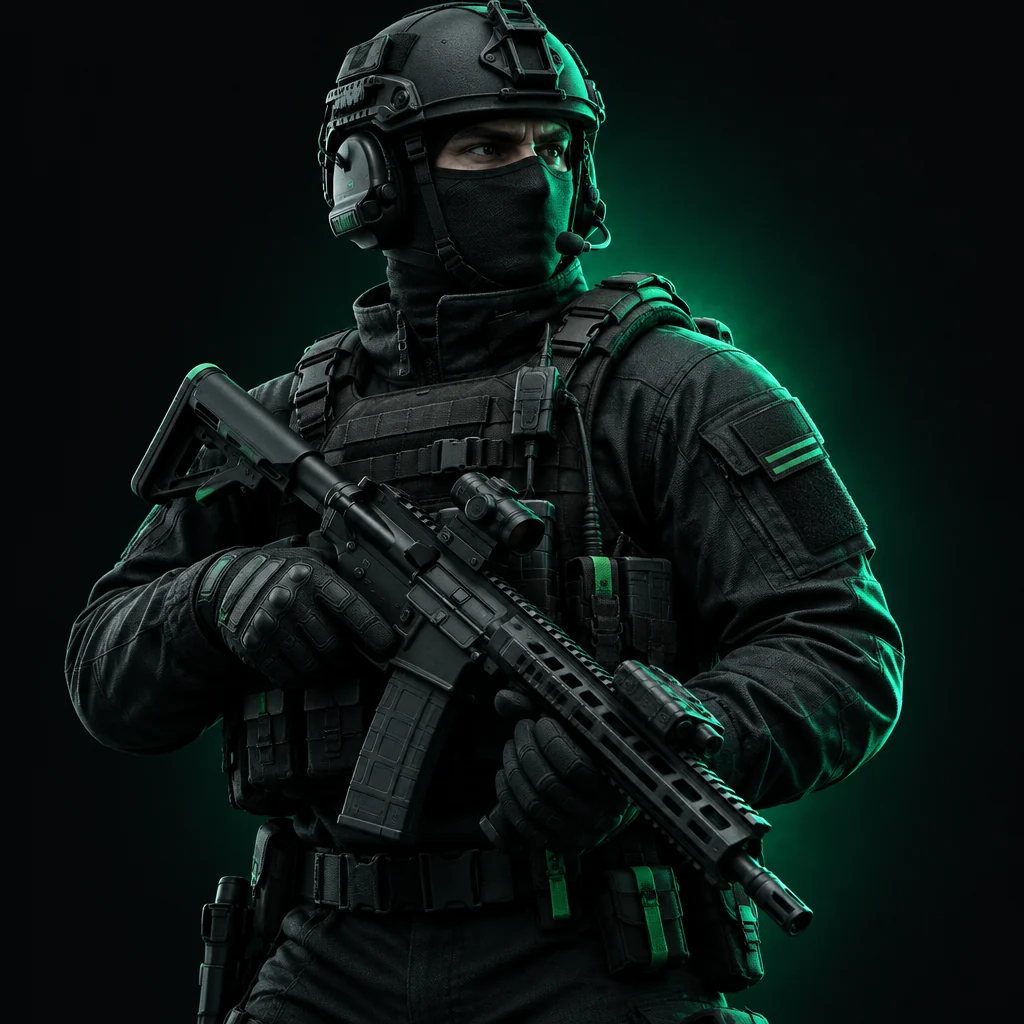
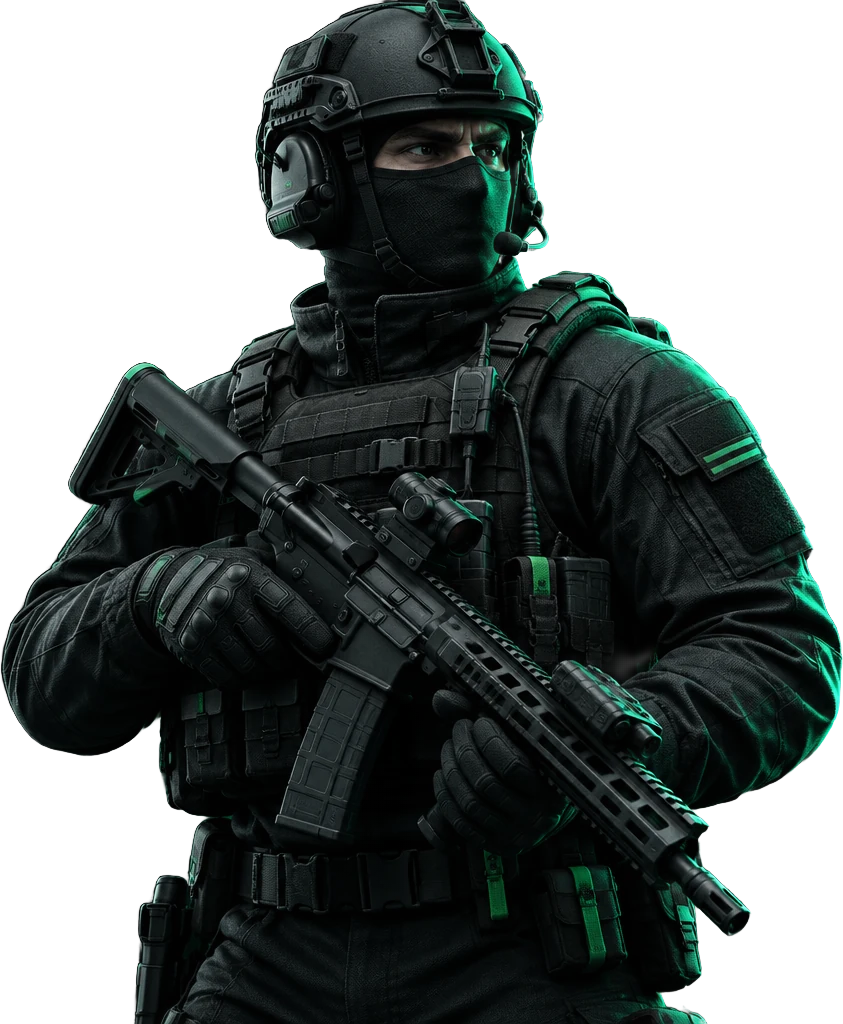
Hero operator cut out and blended into the page, ghost KINETIC wordmark behind

diff --git a/docs/styles.css b/docs/styles.css
@@ -6,6 +6,7 @@
 
 
 
+
 /* Layout: a storefront in the Velocity format. Floating pill nav, a split
    hero with art on the right, portrait product cards, badge led centred
    sections, a columned footer. Product pages: a buy panel, requirement tiles,
@@ -98,8 +99,20 @@ button { font: inherit; color: inherit; }
 h1 { font-size: clamp(54px, 7.2vw, 104px); line-height: .95; }
 .lede { margin-top: 20px; max-width: 48ch; color: var(--dim); font-size: 1.1rem; }
 .actions { display: flex; flex-wrap: wrap; gap: 10px; margin-top: 28px; }
-.hero-art { align-self: end; justify-self: end; width: 100%; max-width: 560px; -webkit-mask-image: linear-gradient(to bottom, black 70%, transparent); mask-image: linear-gradient(to bottom, black 70%, transparent); }
-.hero-art img { width: 100%; height: auto; }
+.hero-art { position: relative; align-self: end; justify-self: end; width: 100%; max-width: 520px; -webkit-mask-image: linear-gradient(to bottom, black 78%, transparent); mask-image: linear-gradient(to bottom, black 78%, transparent); }
+.hero-art::before {
+  content: ""; position: absolute; left: 50%; top: 55%; width: 120%; height: 90%; transform: translate(-50%, -50%); pointer-events: none;
+  background: radial-gradient(closest-side, rgba(62, 207, 142, .28), rgba(62, 207, 142, .08) 55%, transparent 100%);
+}
+.hero-art img { position: relative; width: 82%; height: auto; margin: 0 auto; display: block; filter: drop-shadow(0 0 40px rgba(62, 207, 142, .25)); }
+.hero-ghost {
+  position: absolute; left: 50%; top: 22%; transform: translateX(-50%); display: flex; align-items: center; gap: .02em; white-space: nowrap; pointer-events: none;
+  font-family: var(--display); font-weight: 800; font-size: clamp(96px, 13vw, 190px); line-height: 1; letter-spacing: .02em; text-transform: uppercase;
+  color: transparent; -webkit-text-stroke: 1px rgba(222, 225, 230, .22);
+}
+.hero-ghost .mark { width: 1.05em; height: .82em; }
+.hero-ghost .mark polygon { fill: none; stroke: rgba(222, 225, 230, .22); stroke-width: 1.1; vector-effect: non-scaling-stroke; }
+.hero-ghost .mark .wedge { stroke: rgba(62, 207, 142, .5); animation: none; }
 
 .btn {
   display: inline-flex; align-items: center; gap: 10px; padding: 12px 20px; border-radius: 10px; text-decoration: none; cursor: pointer;
@@ -226,6 +239,7 @@ h2 { font-size: clamp(36px, 4.4vw, 60px); }
   .pillnav a { padding: 8px 10px; }
   .hero-in { grid-template-columns: 1fr; min-height: 0; }
   .hero-art { max-width: 420px; justify-self: center; }
+  .hero-ghost { font-size: clamp(72px, 22vw, 120px); }
   .tiles, .quotes { grid-template-columns: 1fr; }
   .panel { grid-template-columns: 1fr; }
   .reqs { grid-template-columns: 1fr 1fr; }

diff --git a/src/styles.css b/src/styles.css
@@ -91,8 +91,20 @@ button { font: inherit; color: inherit; }
 h1 { font-size: clamp(54px, 7.2vw, 104px); line-height: .95; }
 .lede { margin-top: 20px; max-width: 48ch; color: var(--dim); font-size: 1.1rem; }
 .actions { display: flex; flex-wrap: wrap; gap: 10px; margin-top: 28px; }
-.hero-art { align-self: end; justify-self: end; width: 100%; max-width: 560px; -webkit-mask-image: linear-gradient(to bottom, black 70%, transparent); mask-image: linear-gradient(to bottom, black 70%, transparent); }
-.hero-art img { width: 100%; height: auto; }
+.hero-art { position: relative; align-self: end; justify-self: end; width: 100%; max-width: 520px; -webkit-mask-image: linear-gradient(to bottom, black 78%, transparent); mask-image: linear-gradient(to bottom, black 78%, transparent); }
+.hero-art::before {
+  content: ""; position: absolute; left: 50%; top: 55%; width: 120%; height: 90%; transform: translate(-50%, -50%); pointer-events: none;
+  background: radial-gradient(closest-side, rgba(62, 207, 142, .28), rgba(62, 207, 142, .08) 55%, transparent 100%);
+}
+.hero-art img { position: relative; width: 82%; height: auto; margin: 0 auto; display: block; filter: drop-shadow(0 0 40px rgba(62, 207, 142, .25)); }
+.hero-ghost {
+  position: absolute; left: 50%; top: 22%; transform: translateX(-50%); display: flex; align-items: center; gap: .02em; white-space: nowrap; pointer-events: none;
+  font-family: var(--display); font-weight: 800; font-size: clamp(96px, 13vw, 190px); line-height: 1; letter-spacing: .02em; text-transform: uppercase;
+  color: transparent; -webkit-text-stroke: 1px rgba(222, 225, 230, .22);
+}
+.hero-ghost .mark { width: 1.05em; height: .82em; }
+.hero-ghost .mark polygon { fill: none; stroke: rgba(222, 225, 230, .22); stroke-width: 1.1; vector-effect: non-scaling-stroke; }
+.hero-ghost .mark .wedge { stroke: rgba(62, 207, 142, .5); animation: none; }
 
 .btn {
   display: inline-flex; align-items: center; gap: 10px; padding: 12px 20px; border-radius: 10px; text-decoration: none; cursor: pointer;
@@ -219,6 +231,7 @@ h2 { font-size: clamp(36px, 4.4vw, 60px); }
   .pillnav a { padding: 8px 10px; }
   .hero-in { grid-template-columns: 1fr; min-height: 0; }
   .hero-art { max-width: 420px; justify-self: center; }
+  .hero-ghost { font-size: clamp(72px, 22vw, 120px); }
   .tiles, .quotes { grid-template-columns: 1fr; }
   .panel { grid-template-columns: 1fr; }
   .reqs { grid-template-columns: 1fr 1fr; }

diff --git a/src/pages/index.html b/src/pages/index.html
@@ -15,7 +15,8 @@ nav: home
         </div>
       </div>
       <div class="hero-art" aria-hidden="true">
-        <img src="/assets/hero-art.webp" width="1024" height="1024" alt="">
+        <div class="hero-ghost"><svg class="mark" viewBox="-40 -28 72 56" aria-hidden="true"><polygon class="stem" points="-14,-24 -5,-24 -9,24 -18,24"/><polygon class="arm" points="-3,-2 15,-24 27,-24 8,-2"/><polygon class="arm" points="1,4 12,4 29,24 17,24"/><polygon class="wedge w1" points="-19,-13.4 -19,-8.6 -29,-11"/><polygon class="wedge w2" points="-20,-1.4 -20,3.4 -35,1"/><polygon class="wedge w3" points="-21,10.6 -21,15.4 -31,13"/></svg><span>INETIC</span></div>
+        <img src="/assets/hero-art.webp" width="843" height="1024" alt="">
       </div>
     </div>
   </section>

diff --git a/docs/index.html b/docs/index.html
@@ -45,7 +45,8 @@
         </div>
       </div>
       <div class="hero-art" aria-hidden="true">
-        <img src="/assets/hero-art.webp" width="1024" height="1024" alt="">
+        <div class="hero-ghost"><svg class="mark" viewBox="-40 -28 72 56" aria-hidden="true"><polygon class="stem" points="-14,-24 -5,-24 -9,24 -18,24"/><polygon class="arm" points="-3,-2 15,-24 27,-24 8,-2"/><polygon class="arm" points="1,4 12,4 29,24 17,24"/><polygon class="wedge w1" points="-19,-13.4 -19,-8.6 -29,-11"/><polygon class="wedge w2" points="-20,-1.4 -20,3.4 -35,1"/><polygon class="wedge w3" points="-21,10.6 -21,15.4 -31,13"/></svg><span>INETIC</span></div>
+        <img src="/assets/hero-art.webp" width="843" height="1024" alt="">
       </div>
     </div>
   </section>
